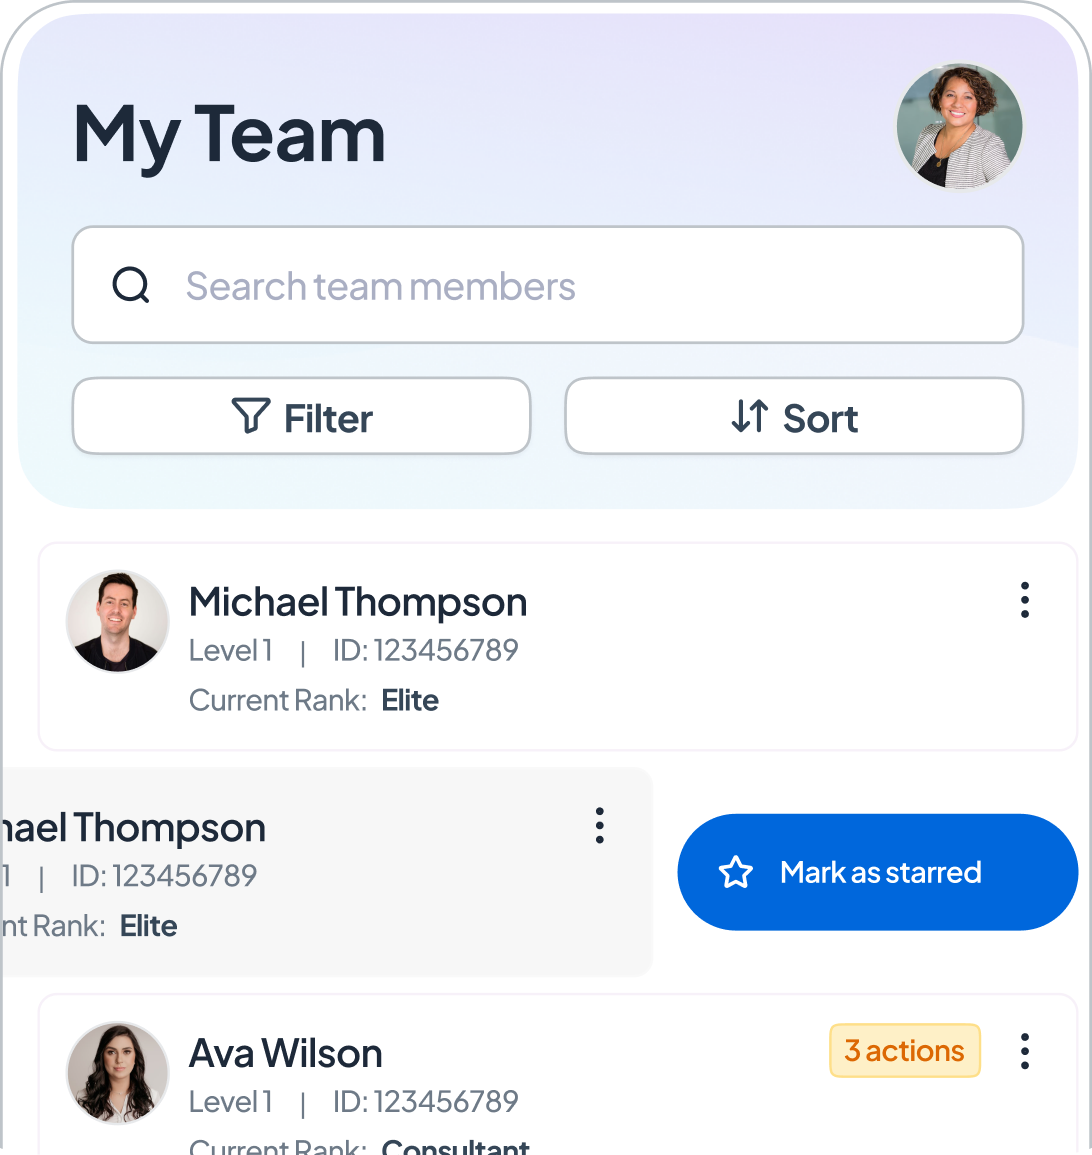
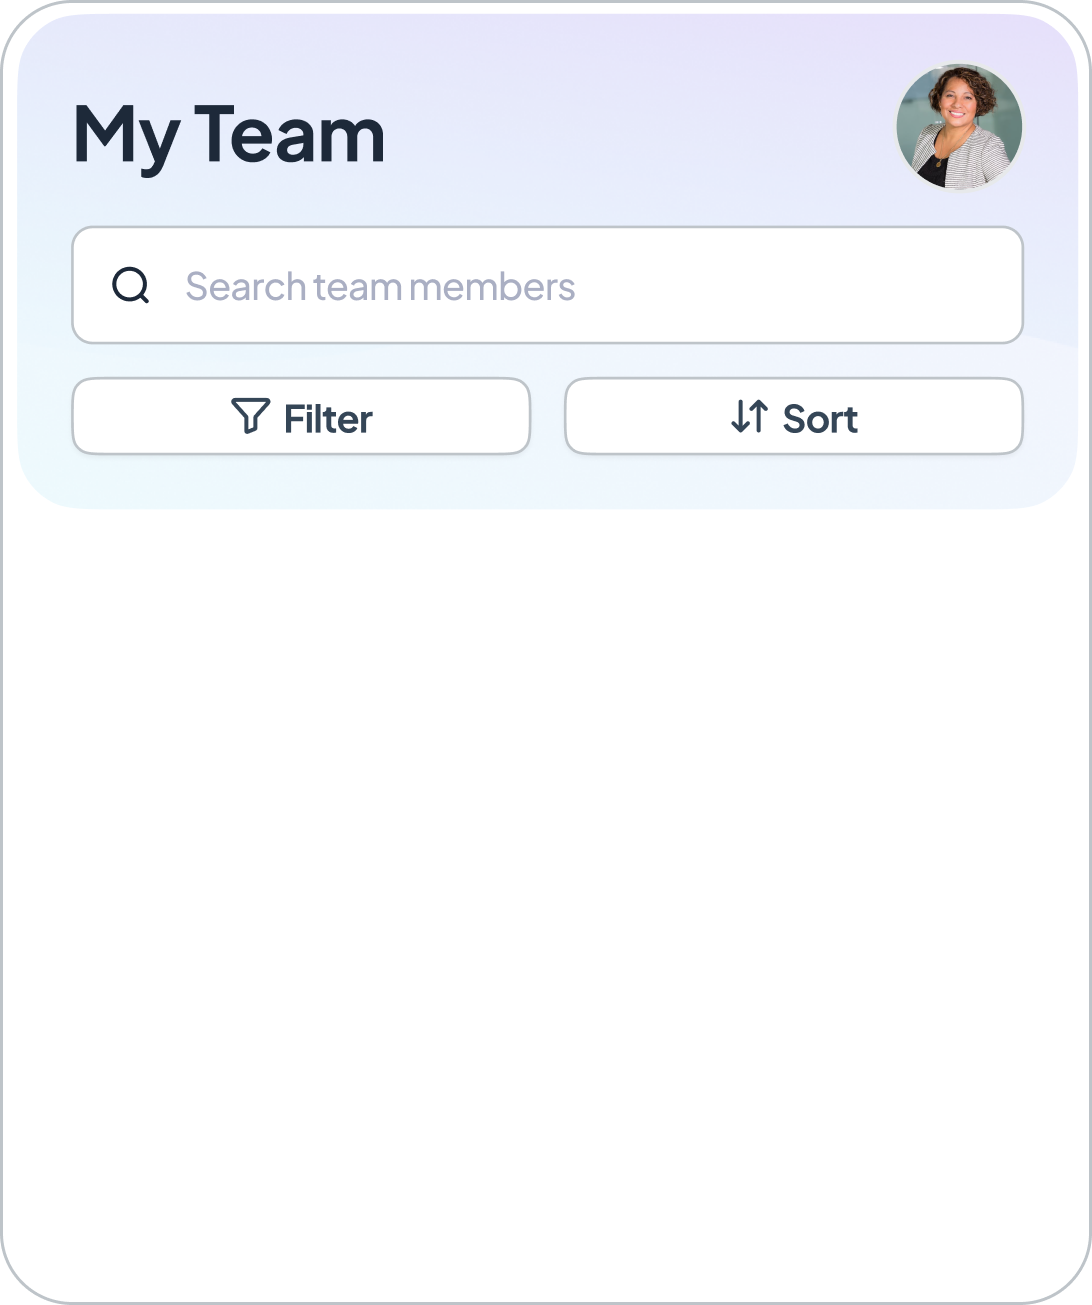
Polish onboarding visual states

diff --git a/src/frames/Frame7MyTeam.tsx b/src/frames/Frame7MyTeam.tsx
@@ -4,6 +4,7 @@ import { duration, easing, stagger } from "../motion/motion.tokens";
 import type { StageProps } from "../journey/stageProps";
 import teamHeader from "../assets/exports/my-team-header.png";
 import rowThompson from "../assets/exports/my-team-row-thompson.png";
+import rowWilliams from "../assets/exports/my-team-row-williams.png";
 import rowWilson from "../assets/exports/my-team-row-wilson.png";
 import starPill from "../assets/exports/my-team-star-pill.png";
 
@@ -20,8 +21,7 @@ const CARD_HEIGHT = 435;
 // one unit, header stays pinned, rows stagger in 0.2s apart, THEN the
 // middle row auto-swipes to reveal the star action as part of the entrance
 // sequence — not a separate idle-hint loop that cancels on touch, unlike
-// the earlier build. Reproduces the source design's duplicate "Michael
-// Thompson" content deliberately — see FIGMA-DEFECTS.md.
+// the earlier build.
 // Beat 2, "Component Exit": the whole card leaves as ONE unit — no per-row
 // stagger on the way out, unlike the entrance. A subtle upward anticipation
 // bounce, then it slides down off-screen while fading "slightly" (so it is
@@ -73,9 +73,16 @@ export function Frame7MyTeamStage({ exiting }: StageProps) {
       <RowReveal delay={0} left={12.5} top={180.5} src={rowThompson} />
 
       <div style={{ position: "absolute", left: 0, top: 255.9, width: CARD_WIDTH }}>
-        <img src={starPill} alt="Mark as starred" style={{ position: "absolute", left: 225, top: 15.5, width: 133.65 }} />
         <motion.img
-          src={rowThompson}
+          src={starPill}
+          alt="Mark as starred"
+          initial={{ opacity: 0 }}
+          animate={{ opacity: 1 }}
+          transition={{ duration: 0.1, delay: stagger.contactRow + 0.5 }}
+          style={{ position: "absolute", left: 225, top: 15.5, width: 133.65 }}
+        />
+        <motion.img
+          src={rowWilliams}
           alt=""
           initial={{ opacity: 0, y: 40 }}
           animate={{ opacity: 1, y: 0 }}

diff --git a/src/frames/Frame5Tracking.tsx b/src/frames/Frame5Tracking.tsx
@@ -26,9 +26,9 @@ import boostModule from "../assets/exports/tracking-boost-module.png";
 // offsets are gone and the metadata is the placement, exactly as authored.
 const CARD_SHADOW = "0 8px 16px -4px rgba(16,24,40,0.1), 0 4px 6px -2px rgba(16,24,40,0.05)";
 const CARDS = [
-  { src: minQual, left: -25.64, top: 161.19, width: 228.35, z: 1, floatDelay: 0 },
-  { src: fastStart, left: 112.04, top: 126, width: 202.98, z: 2, floatDelay: 0.3 },
-  { src: boostModule, left: 248.29, top: 224.01, width: 175, z: 3, floatDelay: 0.6 },
+  { src: minQual, left: -25.64, top: 161.19, width: 228.35, radius: 16, z: 1, floatDelay: 0 },
+  { src: fastStart, left: 112.04, top: 126, width: 202.98, radius: 16, z: 2, floatDelay: 0.3 },
+  { src: boostModule, left: 248.29, top: 224.01, width: 175, radius: 8, z: 3, floatDelay: 0.6 },
 ];
 
 // Beat 2, "Card Exit": each card scales rapidly TOWARDS the viewport while
@@ -77,7 +77,12 @@ export function Frame5TrackingStage({ exiting }: StageProps) {
             // exit's own transform and the card wobbles as it flies past.
             animate={settled && !exiting ? { y: [0, -6, 0] } : {}}
             transition={{ duration: 3, repeat: Infinity, ease: "easeInOut", delay: card.floatDelay }}
-            style={{ width: "100%", display: "block", boxShadow: CARD_SHADOW }}
+            style={{
+              width: "100%",
+              display: "block",
+              borderRadius: card.radius,
+              boxShadow: CARD_SHADOW,
+            }}
           />
         </motion.div>
       ))}

diff --git a/src/journey/PaginationIndicator.tsx b/src/journey/PaginationIndicator.tsx
@@ -108,7 +108,13 @@ export function LoadingPagination({ loaded, loadingMs, morphMs }: { loaded: bool
         initial={{ scaleX: reduceMotion ? 1 : 0 }}
         animate={{ scaleX: 1 }}
         transition={{ duration: reduceMotion ? 0 : loadingMs / 1000, ease: "linear" }}
-        style={{ position: "absolute", inset: 0, transformOrigin: "0% 50%" }}
+        style={{
+          position: "absolute",
+          inset: 0,
+          transformOrigin: "0% 50%",
+          borderRadius: RADIUS,
+          overflow: "hidden",
+        }}
       >
         <motion.div
           initial={false}
@@ -120,9 +126,12 @@ export function LoadingPagination({ loaded, loadingMs, morphMs }: { loaded: bool
             <motion.div
               key={i}
               initial={false}
-              animate={{ backgroundColor: loaded && i > 0 ? gray : blue }}
+              animate={{
+                backgroundColor: loaded && i > 0 ? gray : blue,
+                borderRadius: loaded ? RADIUS : 0,
+              }}
               transition={{ duration: morphSeconds, ease: "easeOut" }}
-              style={{ flex: 1, height: "100%", borderRadius: RADIUS }}
+              style={{ flex: 1, height: "100%" }}
             />
           ))}
         </motion.div>

diff --git a/src/data/copy.ts b/src/data/copy.ts
@@ -1,5 +1,4 @@
 // All strings sourced directly from the Figma frames — see FIGMA-DEFECTS.md
-// for the one defect reproduced deliberately (duplicate "Michael Thompson").
 
 export const splash = {
   title: "dōTERRA Pro",
